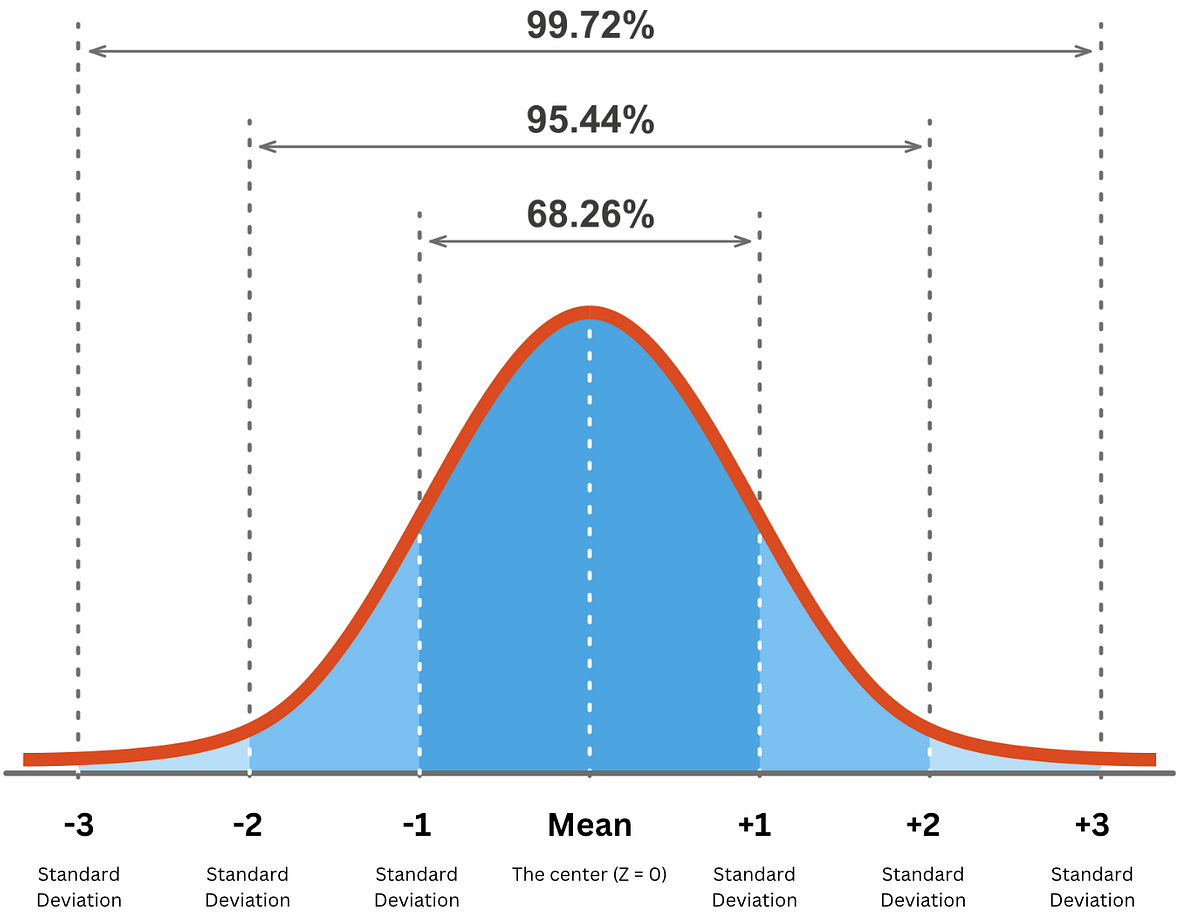
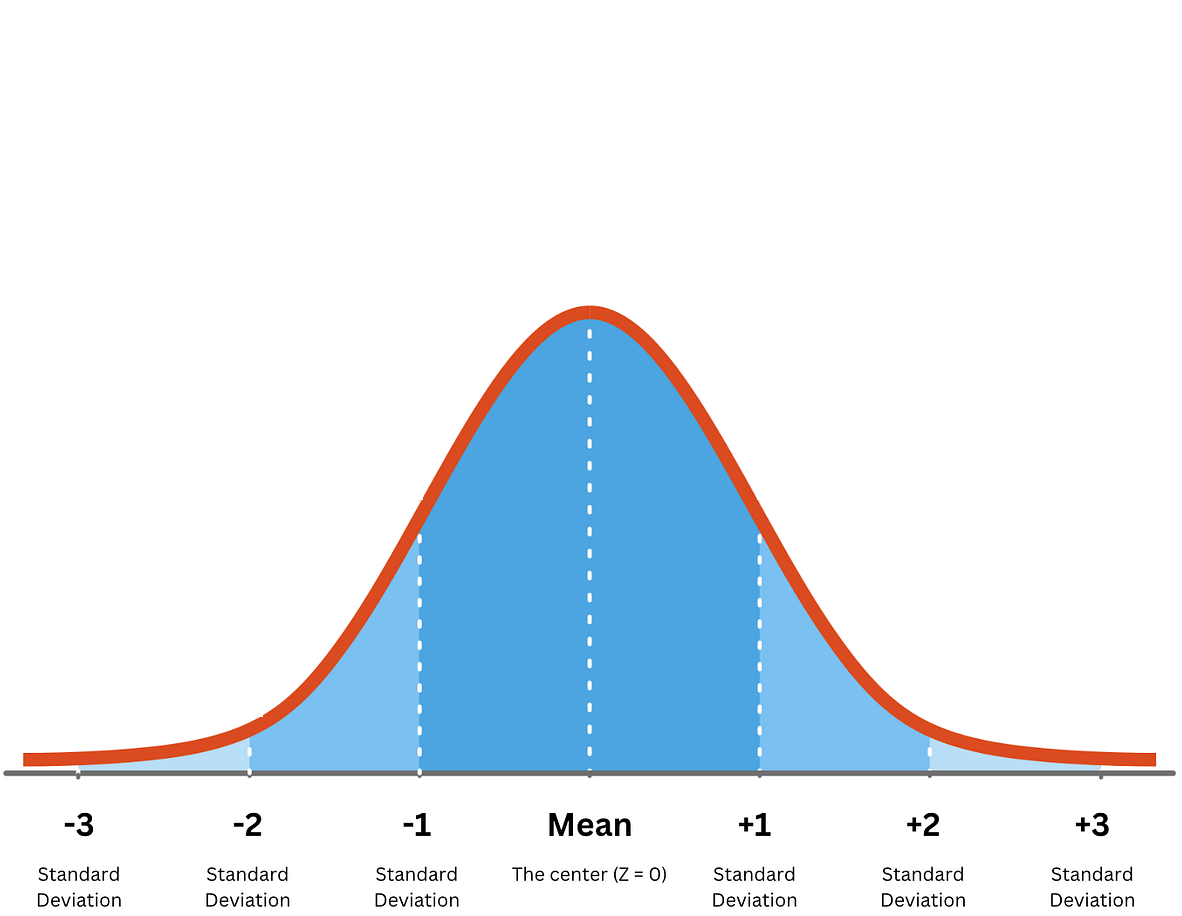
ok

Changed region(s): [[0.0609, 0.0, 0.9442, 0.0611], [0.2132, 0.0917, 0.7919, 0.1834], [0.3655, 0.214, 0.6396, 0.2751]]

diff --git a/slides/1015scg/lecture-03.html b/slides/1015scg/lecture-03.html
@@ -2222,31 +2222,34 @@
 									</p>
 								</div>
 								<div class="left-txt">
-									<p class="fragment" data-fragment-index="0">
+									<p class="fragment" data-fragment-index="1">
 										\(\mu\) is the best estimate and \(\text{SE}\) is the standard error
 										With 95.44% confidence the true value \(x\) lies between
 									</p>
 								</div>
 								<div style="text-align: center;">
-									<p class="fragment" data-fragment-index="0">
+									<p class="fragment" data-fragment-index="1">
 										\(\mu - 2\text{SE}\lt x \lt \mu +2\text{SE}\)
 									</p>
 								</div>
 								<div class="left-txt">
-									<p class="fragment" data-fragment-index="1">
+									<p class="fragment" data-fragment-index="3">
 										With 99.72% confidence the true value \(x\) lies between
 									</p>
 								</div>
 								<div style="text-align: center;">
-									<p class="fragment" data-fragment-index="1">
+									<p class="fragment" data-fragment-index="3">
 										\(\mu - 3\text{SE}\lt x \lt \mu +3\text{SE}\)
 									</p>
 								</div>
 
 							</td>
 							<td style="width: 60%;">
-								<div>
-									<img style="width: 100%;" src="images/lec-03/bell-curve-02.png">
+								<div class="r-stack">
+									<img class="fragment fade-out" data-fragment-index="0" style="width: 100%;" src="images/lec-03/bell-curve-02.png">
+									<img class="fragment fade-in-the-out" data-fragment-index="0" style="width: 100%;" src="images/lec-03/bell-curve-03.png">
+									<img class="fragment fade-in-the-out" data-fragment-index="2" style="width: 100%;" src="images/lec-03/bell-curve-04.png">
+									<img class="fragment fade-in" data-fragment-index="4" style="width: 100%;" src="images/lec-03/bell-curve-05.png">
 
 								</div>
 							</td>
